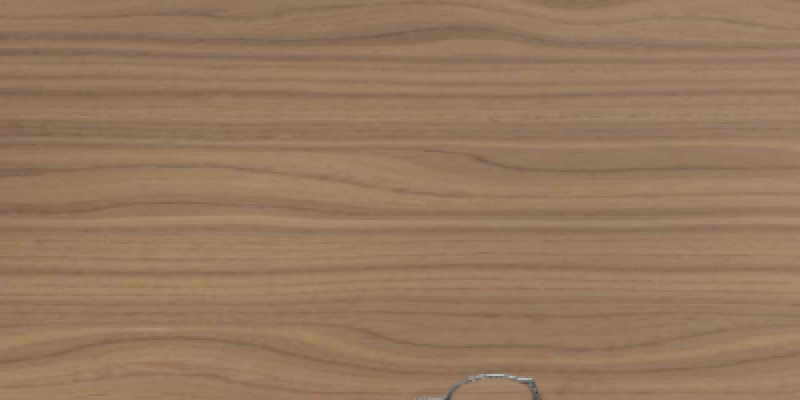
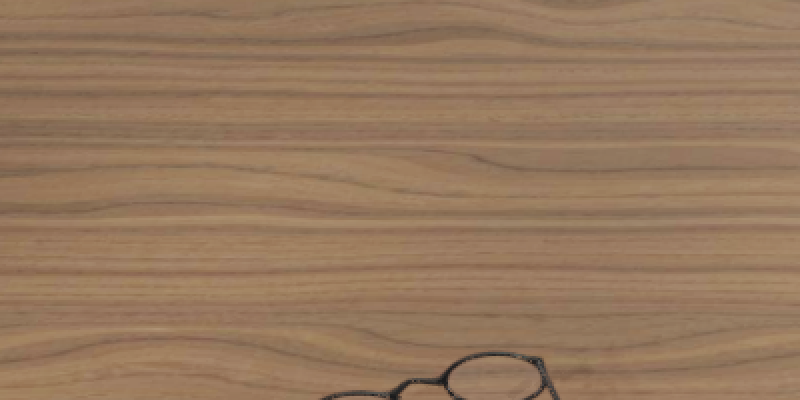
Add round 4 stills for #2825

Changed region(s): [[0.375, 0.87, 0.7188, 1.0]]

diff --git a/NOTES.md b/NOTES.md
@@ -28,3 +28,7 @@ Known faults: the wood still blurs along the grain (no anisotropic filtering); o
 - The mirrored atlas crop showed a mirror axis and a dark blob, so the tabletop now uses the CC0 Poly Haven `black_walnut_veneer_02` diffuse (2K reduced to 1536 px, mapped at 1 m per tile, about 1,536 px per metre, no mirroring), darkened, with a faint low-frequency brightness drift; constant roughness.
 - Phone: the notebook corner and the pens reach into the frame; the camera stays at about 58 percent of the width. Desktop: postcards moved nearer the camera, tighter glasses shadow.
 - GLB: 4,033,412 bytes. `assets/wood-after.png` is the new wood crop (`wood-before.png` is unchanged).
+
+## Round 4
+
+- Postcard lies flat, picture up (it stood on its edge in the source); phone focus box centred on the camera with more of the notebook; spectacles larger with darker frames. GLB: 3,941,056 bytes.
